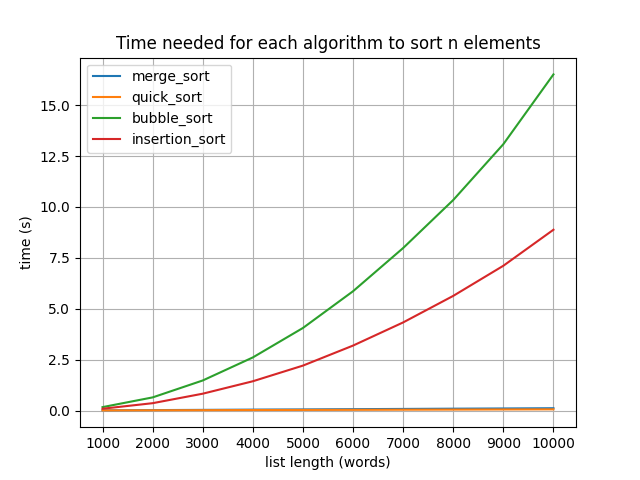
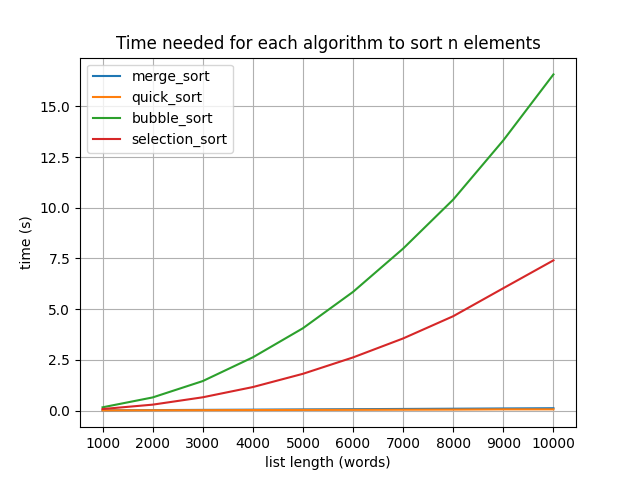
Replace insertion with selection sort (whoops)

diff --git a/zad2/test_main.py b/zad2/test_main.py
@@ -1,4 +1,4 @@
-from algorithms import merge_sort, quick_sort, bubble_sort, insertion_sort
+from algorithms import merge_sort, quick_sort, bubble_sort, selection_sort
 
 
 def test_merge_sort_numbers():
@@ -31,11 +31,11 @@ def test_bubble_sort_strings():
                       ) == ["5QV09", "C59OK", "EzMbM", "Nt1Rj", "TCNId", "ges28", "ltinw", "nSb8R", "ne58v", "qdPku"]
 
 
-def test_insertion_sort_numbers():
-    assert insertion_sort([3, 44, 38, 5, 47, 15, 36, 26, 27, 2, 46, 4, 19, 50, 48]
+def test_selection_sort_numbers():
+    assert selection_sort([3, 44, 38, 5, 47, 15, 36, 26, 27, 2, 46, 4, 19, 50, 48]
                       ) == [2, 3, 4, 5, 15, 19, 26, 27, 36, 38, 44, 46, 47, 48, 50]
 
 
-def test_insertion_sort_strings():
-    assert insertion_sort(["C59OK", "5QV09", "TCNId", "ne58v", "ges28", "EzMbM", "qdPku", "ltinw", "Nt1Rj", "nSb8R"]
+def test_selection_sort_strings():
+    assert selection_sort(["C59OK", "5QV09", "TCNId", "ne58v", "ges28", "EzMbM", "qdPku", "ltinw", "Nt1Rj", "nSb8R"]
                       ) == ["5QV09", "C59OK", "EzMbM", "Nt1Rj", "TCNId", "ges28", "ltinw", "nSb8R", "ne58v", "qdPku"]

diff --git a/zad2/algorithms.py b/zad2/algorithms.py
@@ -31,17 +31,14 @@ def quick_sort(arr):
     return quick_sort(less) + equal + quick_sort(greater)
 
 
-def insertion_sort(arr):
-    if len(arr) < 2:
-        return arr  # already sorted
-
-    for i in range(1, len(arr)):
-        key = arr[i]
-        pos = i - 1
-        while pos >= 0 and key < arr[pos]:
-            arr[pos + 1] = arr[pos]
-            pos -= 1
-        arr[pos + 1] = key
+def selection_sort(arr):
+    for i in range(len(arr) - 1):
+        minimum = i
+        for j in range(i + 1, len(arr)):
+            if arr[j] < arr[minimum]:
+                minimum = j
+        if minimum != i:
+            arr[i], arr[minimum] = arr[minimum], arr[i]
     return arr
 
 

diff --git a/zad2/main.py b/zad2/main.py
@@ -47,7 +47,7 @@ def compare_algorithms(filename):
 def run_algorithms(lines, n):
     arr = get_first_n_words(lines, n)
 
-    algorithm_functions = ["merge_sort", "quick_sort", "bubble_sort", "insertion_sort"]
+    algorithm_functions = ["merge_sort", "quick_sort", "bubble_sort", "selection_sort"]
     num_of_repetitions = 3  # num of repetitions to get avg time
     time_results = {}
 
